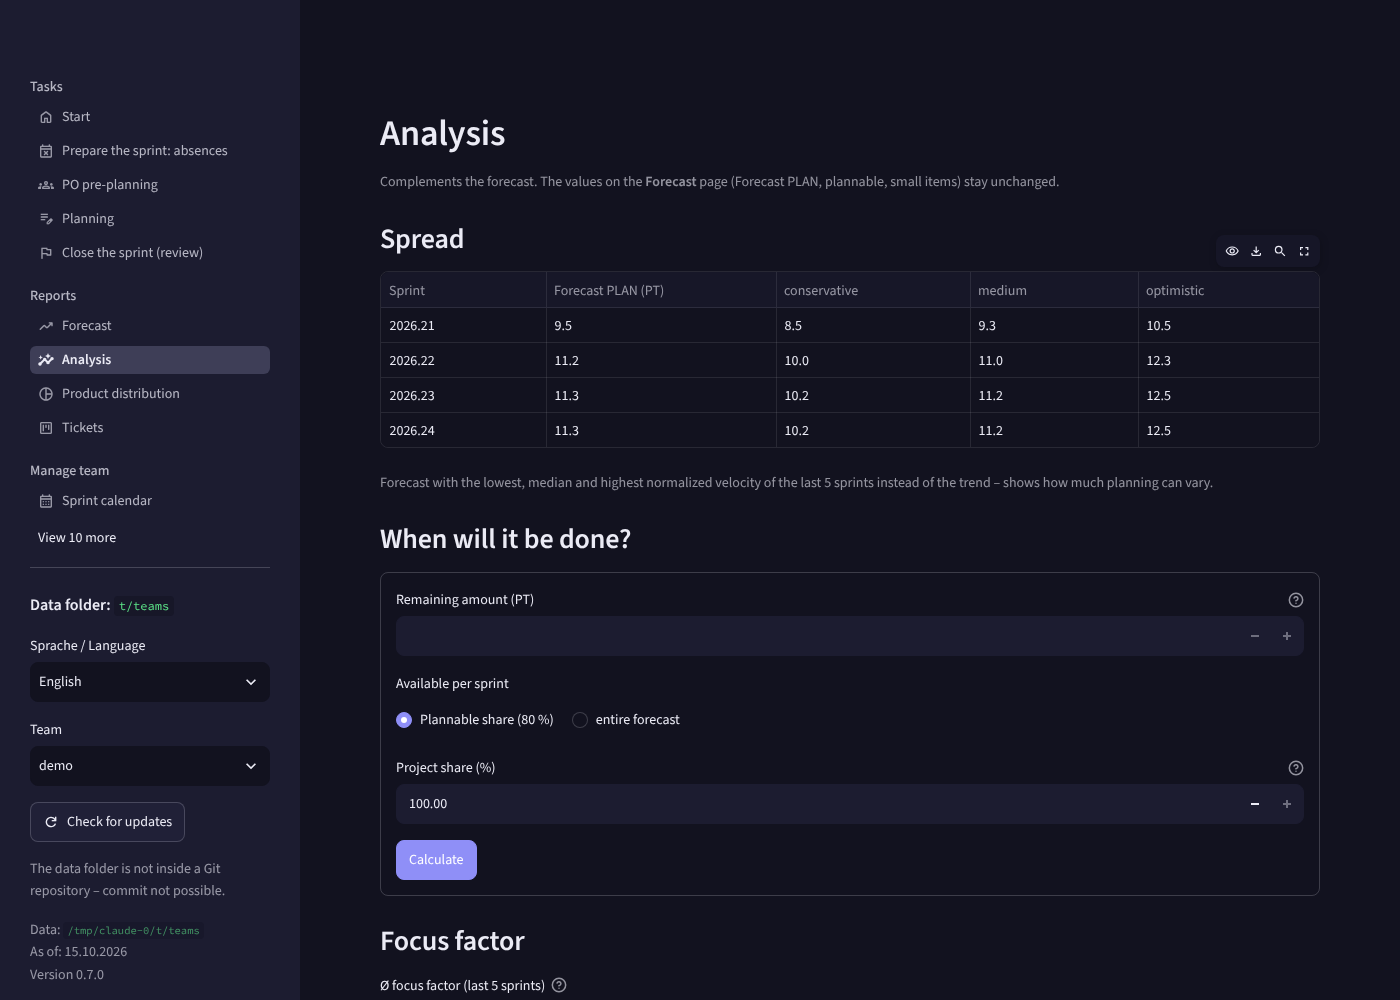
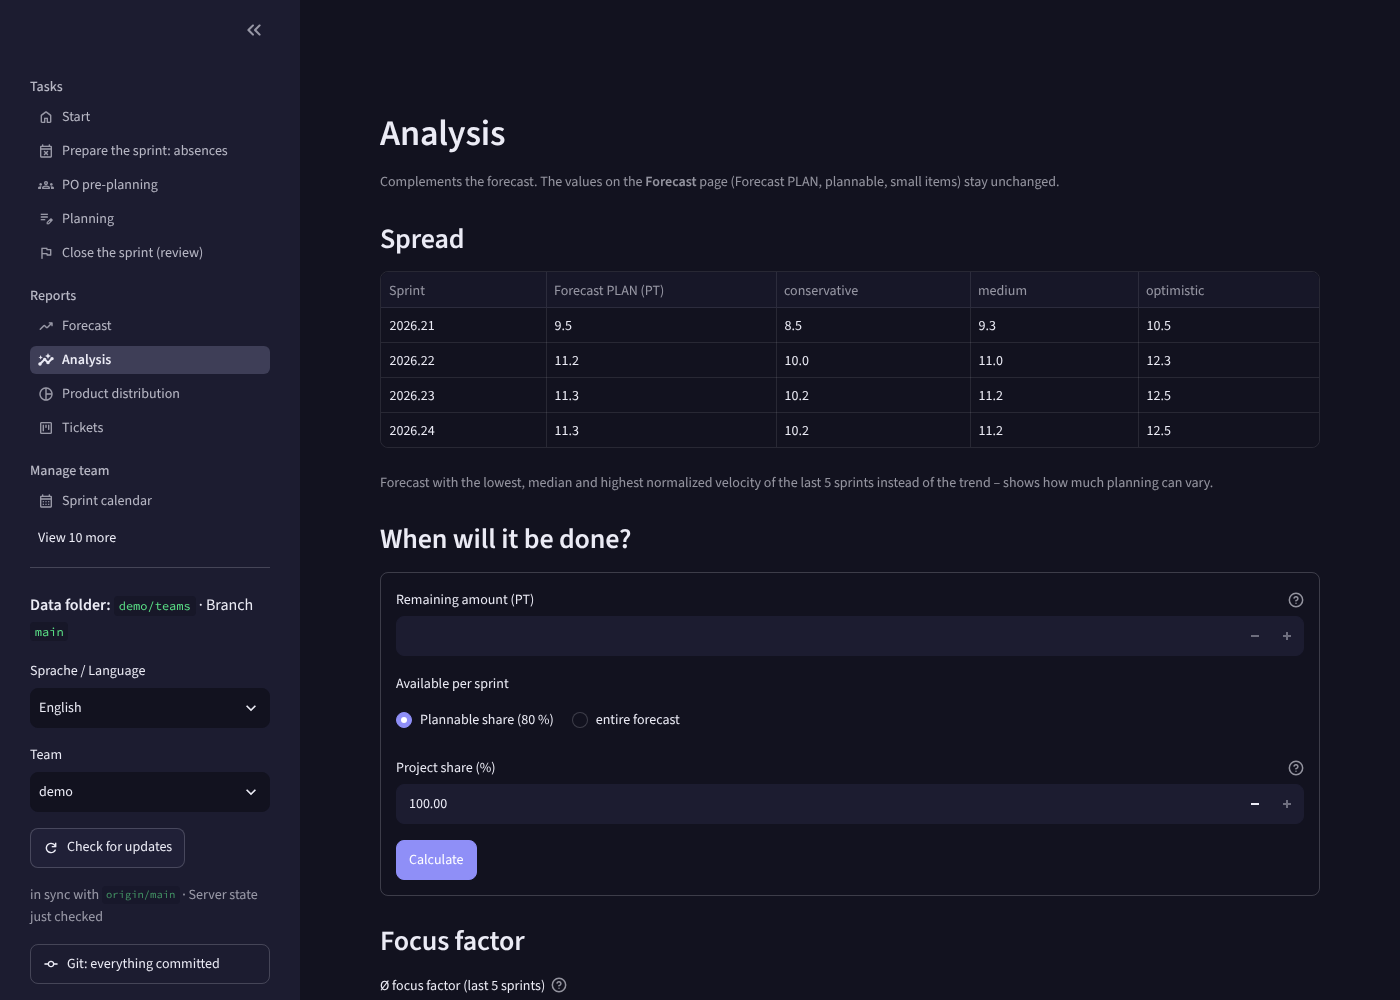
README screenshots: regenerate without the 'Page not found' dialog; add a script that refuses broken pages
The start-page screenshot showed a 'Page not found' dialog. Add scripts/readme_screenshots.py, which
builds the screenshots from the demo data (ticket feature on, Git repo with remote) and aborts when a
page shows a dialog, exception or error text. Regenerated all light and dark images.

Claude-Session: https://claude.ai/code/session_01HtVSZcK65x2SJJVdXgJpVM

Changed region(s): [[0.0307, 0.744, 0.1843, 0.992], [0.0307, 0.62, 0.0921, 0.713], [0.0921, 0.589, 0.1843, 0.62]]

diff --git a/scripts/readme_screenshots.py b/scripts/readme_screenshots.py
@@ -1,0 +1,130 @@
+# SPDX-License-Identifier: EUPL-1.2
+"""Regenerates the README screenshots in docs/assets/screenshots/ from the demo data.
+
+Usage: ``uv run python scripts/readme_screenshots.py [--out DIR]``
+
+Runs the app on a copy of the demo data (a Git repository, so the start page shows no setup
+hints) in English, once light and once dark. Aborts without writing a file for a page that shows
+an error message ("Page not found", a Python exception, a Streamlit alert about a failure), so a
+broken screenshot cannot reach the README unnoticed.
+"""
+
+from __future__ import annotations
+
+import argparse
+import os
+import sys
+import tempfile
+from pathlib import Path
+
+ROOT = Path(__file__).resolve().parents[1]
+sys.path.insert(0, str(ROOT / "tests" / "e2e"))
+sys.path.insert(0, str(ROOT / "tests"))
+
+from harness import (  # noqa: E402
+    App,
+    copy_demo,
+    init_repository,
+    main_area,
+    make_bare,
+    open_page,
+    settle,
+    wait_until_stable,
+)
+from playwright.sync_api import Page, expect, sync_playwright  # noqa: E402
+from ticketfixtures import enable, seed  # noqa: E402
+
+# name -> (URL path, heading that must be visible)
+PAGES = {
+    "start": ("", "What would you like to do?"),
+    "forecast": ("forecast", "Forecast"),
+    "planning": ("planning", "Sprint Planning"),
+    "tickets": ("tickets", "Tickets"),
+    "products": ("products", "Product distribution"),
+    "analysis": ("analysis", "Analysis"),
+}
+THEMES = {"light": "Light", "dark": "Dark"}
+ERRORS = ("Page not found", "Traceback", "Error")
+
+
+class BrokenScreenshot(RuntimeError):
+    pass
+
+
+def check(page: Page, name: str, heading: str) -> None:
+    """Raises when the page shows an error instead of the expected content."""
+    expect(main_area(page).get_by_role("heading", name=heading).first).to_be_visible()
+    problems = []
+    if page.get_by_test_id("stException").count():
+        problems.append("Python exception")
+    if page.get_by_role("dialog").count():
+        problems.append("dialog open: " + page.get_by_role("dialog").first.inner_text()[:80])
+    if page.get_by_test_id("stAlert").filter(has_text="Error").count():
+        problems.append("error alert")
+    for text in ERRORS[:2]:
+        if page.get_by_text(text).count():
+            problems.append(f"text '{text}' on the page")
+    if problems:
+        raise BrokenScreenshot(f"{name}: " + "; ".join(problems))
+
+
+def set_theme(page: Page, app: App, label: str) -> None:
+    open_page(page, app, "app_settings")
+    page.locator(".st-key-theme").get_by_text(label, exact=True).click()
+    settle(page)
+
+
+def relax_targets(data: Path) -> None:
+    """Later target dates than the test fixtures use, so the traffic lights are not all red."""
+    file = data / "demo" / "projects.yaml"
+    file.write_text(
+        file.read_text(encoding="utf-8")
+        .replace("2027-03-31", "2028-06-30")
+        .replace("2026-11-30", "2027-09-30"),
+        encoding="utf-8",
+    )
+
+
+def main() -> int:
+    parser = argparse.ArgumentParser(description=__doc__.split("\n")[0])
+    parser.add_argument("--out", type=Path, default=ROOT / "docs" / "assets" / "screenshots")
+    out = parser.parse_args().out
+    out.mkdir(parents=True, exist_ok=True)
+    with tempfile.TemporaryDirectory(prefix="foresprint-shots-") as tmp:
+        work = Path(tmp) / "demo"
+        data = copy_demo(work)
+        enable(data)  # the Tickets page only exists for teams with the ticket feature
+        relax_targets(data)
+        seed(data)
+        # Remote and author, so the start page shows no setup hints.
+        init_repository(data, make_bare(Path(tmp) / "remote.git"))
+        app = App("demo", data, work, language="en")
+        app.gitconfig.write_text("[user]\n\tname = Alex\n\temail = alex@example.invalid\n")
+        app.start()
+        try:
+            with sync_playwright() as driver:
+                options = {}
+                if channel := os.environ.get("E2E_CHANNEL"):
+                    options["channel"] = channel
+                if executable := os.environ.get("E2E_EXECUTABLE"):
+                    options["executable_path"] = executable
+                browser = driver.chromium.launch(**options)
+                page = browser.new_page(viewport={"width": 1400, "height": 1000})
+                for theme, label in THEMES.items():
+                    set_theme(page, app, label)
+                    for name, (path, heading) in PAGES.items():
+                        open_page(page, app, path)
+                        wait_until_stable(page, '[data-testid="stMain"] [data-testid]')
+                        page.mouse.move(0, 0)  # no tooltip from a hovered element
+                        check(page, name, heading)
+                        target = out / f"{name}-{theme}.png"
+                        page.screenshot(path=str(target))
+                        print("wrote", target)
+                browser.close()
+        finally:
+            app.stop()
+    return 0
+
+
+if __name__ == "__main__":
+    sys.exit(main())
